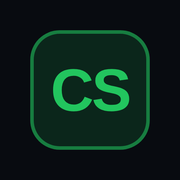
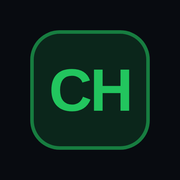
Rename to CardHawk AI

diff --git a/src/lib/email.ts b/src/lib/email.ts
@@ -31,11 +31,11 @@ export function alertEmailHtml(hits: (ScanHit & { searchName: string })[], usdTo
     .join("");
   return `<div style="background:#080b10;padding:24px;font-family:-apple-system,Segoe UI,Arial,sans-serif">
   <div style="max-width:640px;margin:0 auto;background:#0f141b;border:1px solid #1f2733;border-radius:12px;overflow:hidden">
-    <div style="padding:20px 24px;border-bottom:1px solid #1f2733;color:#e6ebf2;font-size:18px;font-weight:700">CardScout AI · ${hits.length} new deal${hits.length === 1 ? "" : "s"}</div>
+    <div style="padding:20px 24px;border-bottom:1px solid #1f2733;color:#e6ebf2;font-size:18px;font-weight:700">CardHawk AI · ${hits.length} new deal${hits.length === 1 ? "" : "s"}</div>
     <table style="width:100%;border-collapse:collapse;font-size:14px">${rows}</table>
     <div style="padding:16px 24px;color:#5a6678;font-size:12px;line-height:1.5">
       Profit is calculated against <b>your own card values</b>, not verified sold data. Check the listing before buying.
-      <br><a href="${esc(appUrl)}/scanner" style="color:#4cc2ff">Open CardScout</a>
+      <br><a href="${esc(appUrl)}/scanner" style="color:#4cc2ff">Open CardHawk</a>
     </div>
   </div>
 </div>`;
@@ -48,7 +48,7 @@ export async function sendAlertEmail(subject: string, html: string): Promise<str
       method: "POST",
       headers: { Authorization: `Bearer ${process.env.RESEND_API_KEY}`, "Content-Type": "application/json" },
       body: JSON.stringify({
-        from: process.env.ALERT_FROM ?? "CardScout AI <onboarding@resend.dev>",
+        from: process.env.ALERT_FROM ?? "CardHawk AI <onboarding@resend.dev>",
         to: [process.env.ALERT_EMAIL],
         subject,
         html,

diff --git a/src/components/PushSetup.tsx b/src/components/PushSetup.tsx
@@ -114,7 +114,7 @@ export default function PushSetup({ publicKey }: { publicKey: string | null }) {
         <div className="rounded-lg border border-warn/30 bg-warn-soft px-3 py-2 text-warn">
           {isIos ? (
             <>
-              On iPhone, notifications only work from the <strong>Home Screen app</strong>: open CardScout from its Home Screen
+              On iPhone, notifications only work from the <strong>Home Screen app</strong>: open CardHawk from its Home Screen
               icon (not Safari), then come back to Settings. Needs iOS 16.4 or later.
             </>
           ) : (
@@ -125,8 +125,8 @@ export default function PushSetup({ publicKey }: { publicKey: string | null }) {
 
       {state === "denied" && (
         <div className="rounded-lg border border-warn/30 bg-warn-soft px-3 py-2 text-warn">
-          Notifications are blocked for CardScout on this device.{" "}
-          {isIos ? "Turn them on in iPhone Settings → Notifications → CardScout." : "Allow them in your browser's site settings."}
+          Notifications are blocked for CardHawk on this device.{" "}
+          {isIos ? "Turn them on in iPhone Settings → Notifications → CardHawk." : "Allow them in your browser's site settings."}
         </div>
       )}
 

diff --git a/src/app/login/page.tsx b/src/app/login/page.tsx
@@ -1,7 +1,7 @@
 import { safeNextPath } from "@/lib/auth";
 import { login } from "./actions";
 
-export const metadata = { title: "Sign in · CardScout AI" };
+export const metadata = { title: "Sign in · CardHawk AI" };
 
 export default async function LoginPage({
   searchParams,
@@ -22,10 +22,10 @@ export default async function LoginPage({
       <form action={login} className="w-full max-w-sm rounded-2xl border border-line bg-panel p-6">
         <div className="mb-6 flex items-center gap-2.5">
           <div className="grid h-9 w-9 place-items-center rounded-lg bg-gain/15 ring-1 ring-gain/40">
-            <span className="num text-sm font-bold text-gain">CS</span>
+            <span className="num text-sm font-bold text-gain">CH</span>
           </div>
           <div>
-            <div className="font-semibold">CardScout AI</div>
+            <div className="font-semibold">CardHawk AI</div>
             <div className="text-xs text-faint">Private — sign in to continue</div>
           </div>
         </div>

diff --git a/src/app/layout.tsx b/src/app/layout.tsx
@@ -8,10 +8,10 @@ const geistSans = Geist({ variable: "--font-geist-sans", subsets: ["latin"] });
 const geistMono = Geist_Mono({ variable: "--font-geist-mono", subsets: ["latin"] });
 
 export const metadata: Metadata = {
-  title: "CardScout AI",
+  title: "CardHawk AI",
   description: "Private trading-card investment analysis",
   robots: { index: false, follow: false }, // private tool — keep out of search engines
-  appleWebApp: { capable: true, title: "CardScout", statusBarStyle: "black-translucent" },
+  appleWebApp: { capable: true, title: "CardHawk", statusBarStyle: "black-translucent" },
   icons: { icon: "/icon-192.png", apple: "/apple-touch-icon.png" },
 };
 

diff --git a/public/sw.js b/public/sw.js
@@ -1,4 +1,4 @@
-/* CardScout service worker — shows deal notifications and opens the app when tapped. */
+/* CardHawk service worker — shows deal notifications and opens the app when tapped. */
 self.addEventListener("install", () => self.skipWaiting());
 self.addEventListener("activate", (event) => event.waitUntil(self.clients.claim()));
 
@@ -9,7 +9,7 @@ self.addEventListener("push", (event) => {
   } catch (e) {
     data = { body: event.data ? event.data.text() : "" };
   }
-  const title = data.title || "CardScout";
+  const title = data.title || "CardHawk";
   event.waitUntil(
     self.registration.showNotification(title, {
       body: data.body || "",

diff --git a/src/components/Nav.tsx b/src/components/Nav.tsx
@@ -32,10 +32,10 @@ function Logo() {
   return (
     <div className="flex items-center gap-2.5">
       <div className="grid h-8 w-8 place-items-center rounded-lg bg-gain/15 ring-1 ring-gain/40">
-        <span className="num text-sm font-bold text-gain">CS</span>
+        <span className="num text-sm font-bold text-gain">CH</span>
       </div>
       <div className="leading-tight">
-        <div className="text-[15px] font-semibold tracking-tight">CardScout AI</div>
+        <div className="text-[15px] font-semibold tracking-tight">CardHawk AI</div>
         <div className="text-[11px] text-faint">Private deal desk</div>
       </div>
     </div>

diff --git a/src/app/scanner/page.tsx b/src/app/scanner/page.tsx
@@ -115,7 +115,7 @@ export default async function AutomaticScannerPage({ searchParams }: { searchPar
     <>
       <PageHeader
         title="Automatic Scanner"
-        subtitle="Search eBay now, save searches, and let CardScout check them every few hours against your card values."
+        subtitle="Search eBay now, save searches, and let CardHawk check them every few hours against your card values."
         action={
           scheduleHealthy ? (
             <span className="inline-flex items-center gap-2 rounded-full border border-gain/40 bg-gain-soft px-3 py-1 text-xs font-medium text-gain">

diff --git a/src/data/scanner.ts b/src/data/scanner.ts
@@ -77,7 +77,7 @@ export async function runAllScans(trigger: "schedule" | "manual" | "daily"): Pro
     const best = toEmail.sort((a, b) => (b.roiPercent ?? 0) - (a.roiPercent ?? 0)).slice(0, MAX_EMAIL_ROWS);
     const appUrl = process.env.APP_URL ?? "https://cardscout-ai.vercel.app";
     const err = await sendAlertEmail(
-      `CardScout: ${toEmail.length} new deal${toEmail.length === 1 ? "" : "s"}`,
+      `CardHawk: ${toEmail.length} new deal${toEmail.length === 1 ? "" : "s"}`,
       alertEmailHtml(best, settings.usdToAud, appUrl),
     );
     if (err) summary.errors.push(err);

diff --git a/tests/webpush.test.ts b/tests/webpush.test.ts
@@ -27,7 +27,7 @@ test("a receiving device can decrypt a random message (round trip)", () => {
   const ua = createECDH("prime256v1");
   ua.generateKeys();
   const auth = Buffer.from("0123456789abcdef");
-  const msg = JSON.stringify({ title: "CardScout", body: "2 new deals", url: "/deals" });
+  const msg = JSON.stringify({ title: "CardHawk", body: "2 new deals", url: "/deals" });
   const out = encryptPayload(Buffer.from(msg), ua.getPublicKey("base64url"), auth.toString("base64url"));
   const salt = out.subarray(0, 16);
   const idlen = out[20];

diff --git a/src/data/notify.ts b/src/data/notify.ts
@@ -21,7 +21,7 @@ export function dealsMessage(hits: ScanHit[]): PushMessage {
   const roi = best.roiPercent !== null ? ` (${Math.round(best.roiPercent)}% ROI)` : "";
   const price = best.priceUsd !== null ? `${formatMoney(best.priceUsd, "USD")}` : "";
   return {
-    title: n === 1 ? "CardScout: new deal" : `CardScout: ${n} new deals`,
+    title: n === 1 ? "CardHawk: new deal" : `CardHawk: ${n} new deals`,
     body: `${best.title.slice(0, 90)} — ${price}${profit}${roi}`,
     url: "/deals",
     tag: "cardscout-deals",

diff --git a/src/app/manifest.ts b/src/app/manifest.ts
@@ -3,8 +3,8 @@ import type { MetadataRoute } from "next";
 /** Lets the site install to the Home Screen as an app — required for iPhone notifications. */
 export default function manifest(): MetadataRoute.Manifest {
   return {
-    name: "CardScout AI",
-    short_name: "CardScout",
+    name: "CardHawk AI",
+    short_name: "CardHawk",
     description: "Private trading-card deal desk",
     start_url: "/",
     scope: "/",

diff --git a/src/app/push-actions.ts b/src/app/push-actions.ts
@@ -44,7 +44,7 @@ export async function removeDeviceAction(formData: FormData) {
 
 export async function testPushAction() {
   const r = await pushToAllDevices({
-    title: "CardScout test",
+    title: "CardHawk test",
     body: "Notifications are working. Deals will arrive like this.",
     url: "/deals",
     tag: "cardscout-test",
